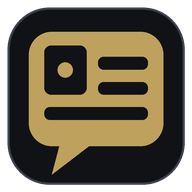
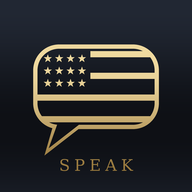
Nouvelle icône : bulle drapeau en or
Claude-Session: https://claude.ai/code/session_01GEm5LWSpR3ZEJzj25ZCFzD

diff --git a/sw.js b/sw.js
@@ -1,6 +1,6 @@
 // Service worker : l'application fonctionne hors ligne (sauf l'IA et la reconnaissance vocale).
 // Les progrès sont dans localStorage : une mise à jour de ce fichier ne les efface JAMAIS.
-const VERSION = "sa-v1.0.1";
+const VERSION = "sa-v1.0.2";
 const SHELL = ["./", "index.html", "css/style.css", "manifest.webmanifest", "icons/icon-192.png", "icons/icon-512.png",
   "js/main.js", "js/ui.js", "js/store.js", "js/srs.js", "js/speech.js", "js/ai.js", "js/content.js", "js/program.js", "js/talk.js", "js/learn.js", "js/pron.js"];
 
